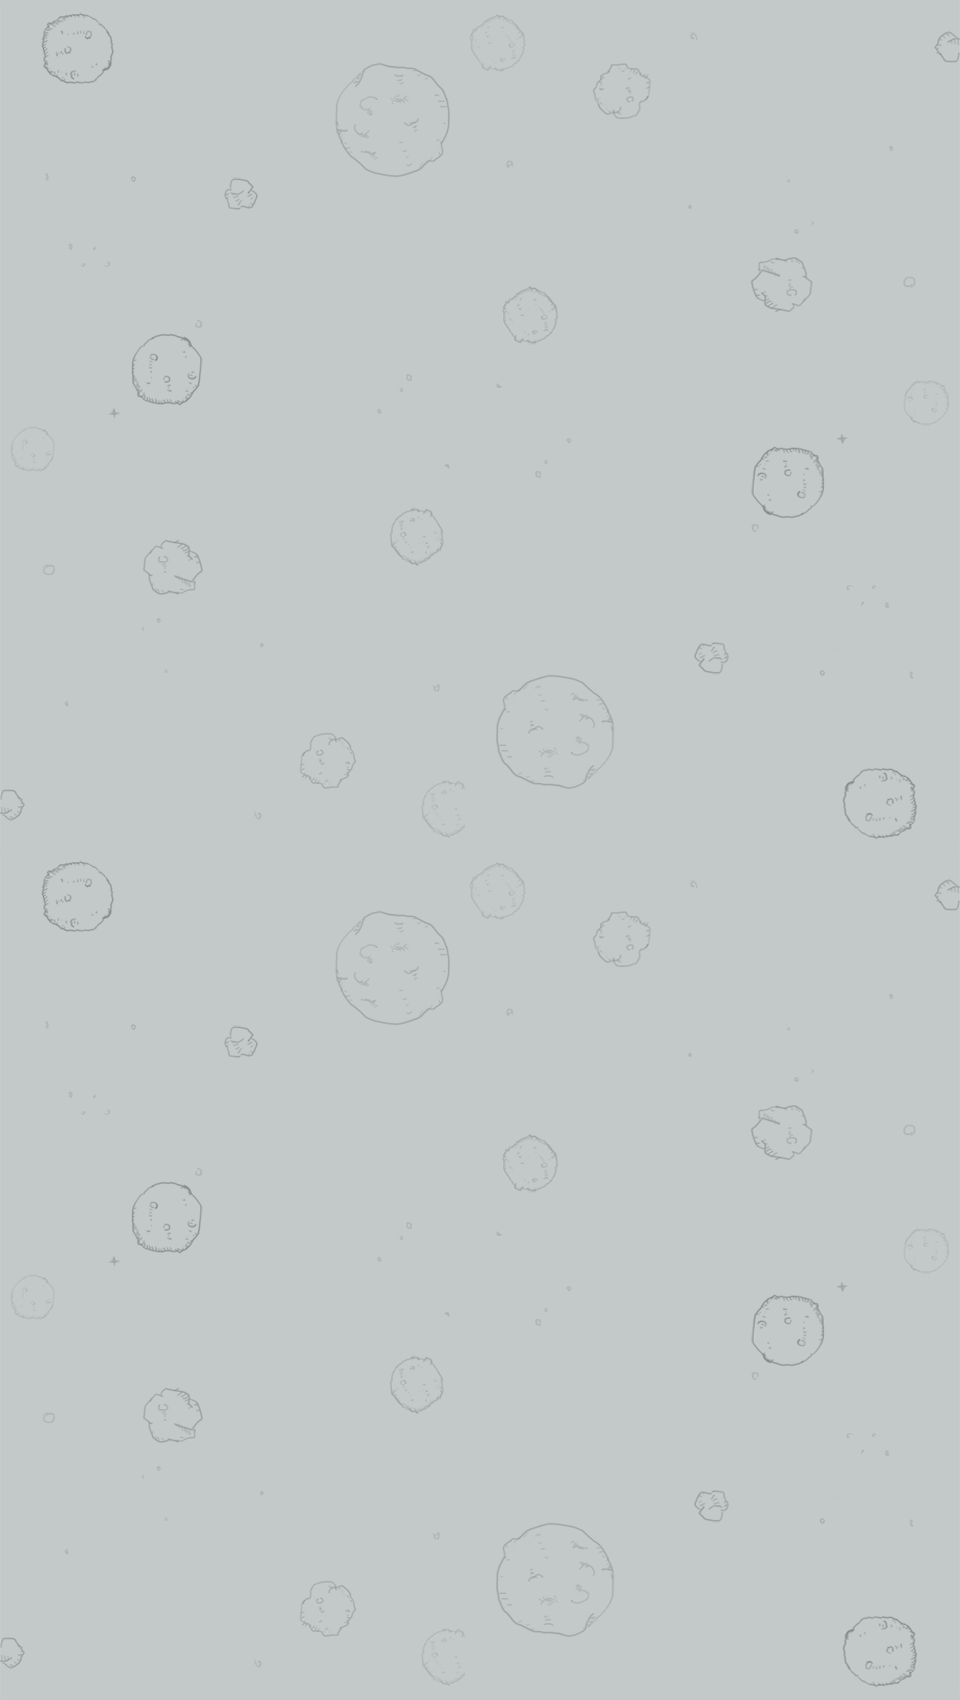
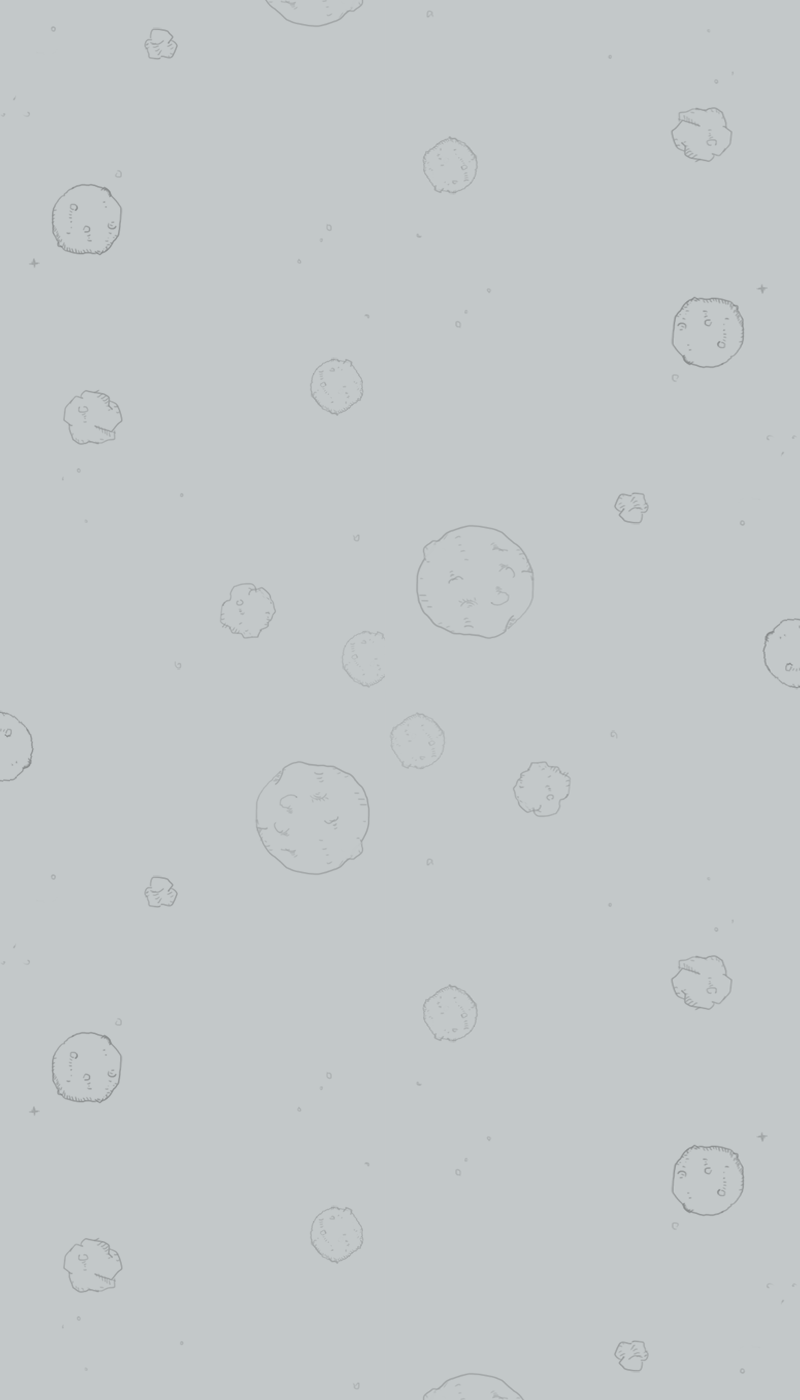
hxy77
更新背景大小

diff --git a/PlaneFight/index.html b/PlaneFight/index.html
@@ -6,14 +6,17 @@
 	</head>
 
 	<body>
-		<div id="stage" style="margin: 0 auto; width: 960px; height: 1700px; text-align: center; vertical-align: middle" >
-			<canvas id="canvas" style="border:0px solid red;" width="960" height="1700">
+		<div id="stage" style="margin: 0 auto; width: 800px; height: 1400px; text-align: center; vertical-align: middle" >
+			<canvas id="canvas" style="border:0px solid red;" width="800" height="1400">
 				不支持画板对象
 			</canvas>
 		</div>
 		<script>
 			var canvas = document.getElementById('canvas');
 			var ctx = canvas.getContext('2d');
+			canvas.addEventListener('touchstart', onTouchStart, false);
+			//canvas.addEventListener('touchmove',onTouchMove,false);
+			//canvas.addEventListener('touchend',onTouchEnd,false);
 
 			var background = new Image();
 			//background.src = "images/background.png";
@@ -88,7 +91,7 @@
 			b[0].src = "images/bullet1.png";
 			b[1] = new Image();
 			b[1].src = "images/bullet2.png";
-			
+
 			var u = [];
 			u[0] = new Image();
 			u[0].src = "images/ufo1.png"
@@ -108,14 +111,14 @@
 			setInterval(function() {
 				controlState(ctx);
 			}, 10);
-			
+
 			function controlState(ctx) {
 				switch(state) {
 					case START:
 						sky.paint(ctx);
 						sky.step();
-						var x = 260;
-						var y = 130;
+						var x = 180;
+						var y = 300;
 						ctx.drawImage(copyright, x, y);
 						break;
 					case RUNNING:
@@ -135,20 +138,31 @@
 					case GAME_OVER:
 						paintComponent(ctx);
 						sky.step();
-						var x = 960 / 2 - 245 / 2;
-						var y = 852 * (1 - 0.6);
+						var x = 800 / 2 - 245 / 2;
+						var y = 1000 * (1 - 0.6);
 						ctx.font = "40px 微软雅黑";
 						ctx.fillText("GAME OVER", x, y);
 						break;
 				}
 			}
-			
+
+
 			canvas.onclick = function() {
 				if (state == START) {
 					state = RUNNING;
 				}
 			}
-			
+			function onTouchStart(event) {
+
+				var touch = event.targetTouches[0];
+				/*if(checkimpact(touch.pageX,touch.pageY,zhujue))
+				 {
+				 //alert("1");
+				 is_clicked_zhujue=true;
+				 }*/
+			}
+
+
 			canvas.onmouseout = function() {
 				if (state == RUNNING) {
 					state = PAUSE;
@@ -194,11 +208,11 @@
 							enemies.splice(0, 0, new Enemy(0, -258, 169, 258, 3, 20, 20, e3, 2));
 						}
 				}
-				var random = parseInt(Math.random()*15);
-				if(random==1){
-					ufo[ufo.length] = new Ufo(0,0,58,88,1,u,1);
+				var random = parseInt(Math.random() * 15);
+				if (random == 1) {
+					ufo[ufo.length] = new Ufo(0, 0, 58, 88, 1, u, 1);
 				}
-				if(hero.power<=0){
+				if (hero.power <= 0) {
 					hero.multipleFire = false;
 				}
 			}
@@ -212,8 +226,8 @@
 					bullets[i].step();
 				}
 				hero.step();
-				for(var i = 0;i<ufo.length;i++){
-					if(ufo[i]){
+				for (var i = 0; i < ufo.length; i++) {
+					if (ufo[i]) {
 						ufo[i].step();
 					}
 				}
@@ -228,20 +242,20 @@
 					bullets[i].paint(ctx);
 				}
 				hero.paint(ctx);
-				for(var i = 0;i<ufo.length;i++){
-					if(ufo[i]){
+				for (var i = 0; i < ufo.length; i++) {
+					if (ufo[i]) {
 						ufo[i].paint(ctx);
 					}
 				}
 				ctx.font = "20px 微软雅黑";
 				ctx.fillText("SCORE:" + score, 10, 20);
-				ctx.fillText("LIFE:" + heroes, 900, 20);
+				ctx.fillText("LIFE:" + heroes, 700, 20);
 			}
 
 			function Sky() {
 				this.img = background;
-				this.width = 960;
-				this.height = 1700;
+				this.width = 800;
+				this.height = 1400;
 				this.x1 = 0;
 				this.y1 = 0;
 				this.x2 = 0;
@@ -286,13 +300,13 @@
 			}
 			//屏幕滑动事件
 			/*canvas.ontouchmove = function(e) {
-				if (state == RUNNING) {
-					var mpoint = getPointOnCanvas(e.x, e.y);
-					hero.x = mpoint.x - hero.width / 2;
-					hero.y = mpoint.y - hero.height / 2;
-				}
-			}*/
-			
+			 if (state == RUNNING) {
+			 var mpoint = getPointOnCanvas(e.x, e.y);
+			 hero.x = mpoint.x - hero.width / 2;
+			 hero.y = mpoint.y - hero.height / 2;
+			 }
+			 }*/
+
 			function FlyingObject(x, y, width, height, life, frames, baseFrameCount) {
 				this.x = x;
 				this.y = y;
@@ -346,13 +360,13 @@
 					}
 				}
 				this.outOfBounds = function() {
-					return this.y >= 1700;
+					return this.y >= 1400;
 				}
 			}
 
 			function Enemy(x, y, width, height, type, life, score, frames, baseFrameCount) {
 				FlyingObject.call(this, x, y, width, height, life, frames, baseFrameCount);
-				this.x = Math.random() * (960 - this.width);
+				this.x = Math.random() * (800 - this.width);
 				this.y = -this.height;
 				this.score = score;
 				this.type = type;
@@ -360,8 +374,8 @@
 
 			function Hero(x, y, width, height, life, frames, baseFrameCount) {
 				FlyingObject.call(this, x, y, width, height, life, frames, baseFrameCount);
-				this.x = 960 / 2 - this.width / 2;
-				this.y = 1700 - this.height - 30;
+				this.x = 800 / 2 - this.width / 2;
+				this.y = 1400 - this.height - 30;
 				this.shootInterval = 300;
 				this.shootLastTime = 0;
 				this.multipleFire = false;
@@ -372,16 +386,16 @@
 					}
 					this.shootLastTime = new Date().getTime();
 					//bullets[bullets.length] = new Bullet(this.x + 45, this.y, 9, 21, 1, b, 1);
-					if(this.multipleFire){
-						bullets[bullets.length] = new Bullet(this.x + 45, this.y + 1, 9, 21, 1, b, 1,1);
-						bullets[bullets.length] = new Bullet(this.x + 45, this.y + 1, 9, 21, 1, b, 1,2);
-						bullets[bullets.length] = new Bullet(this.x + 45, this.y + 1, 9, 21, 1, b, 1,3);
-						bullets[bullets.length] = new Bullet(this.x + 45, this.y + 1, 9, 21, 1, b, 1,4);
-						bullets[bullets.length] = new Bullet(this.x + 45, this.y + 1, 9, 21, 1, b, 1,5);
+					if (this.multipleFire) {
+						bullets[bullets.length] = new Bullet(this.x + 45, this.y + 1, 9, 21, 1, b, 1, 1);
+						bullets[bullets.length] = new Bullet(this.x + 45, this.y + 1, 9, 21, 1, b, 1, 2);
+						bullets[bullets.length] = new Bullet(this.x + 45, this.y + 1, 9, 21, 1, b, 1, 3);
+						bullets[bullets.length] = new Bullet(this.x + 45, this.y + 1, 9, 21, 1, b, 1, 4);
+						bullets[bullets.length] = new Bullet(this.x + 45, this.y + 1, 9, 21, 1, b, 1, 5);
 						this.power--;
-					}else{
+					} else {
 						bullets[bullets.length] = new Bullet(this.x + 45, this.y, 9, 21, 1, b, 1);
-						
+
 					}
 				}
 				this.move = function() {
@@ -389,44 +403,46 @@
 				}
 			}
 
-			function Bullet(x, y, width, height, life, frames, baseFrameCount,type) {
+			function Bullet(x, y, width, height, life, frames, baseFrameCount, type) {
 				FlyingObject.call(this, x, y, width, height, life, frames, baseFrameCount);
 				this.move = function() {
 					this.y -= 2;
-					switch(type){
+					switch(type) {
 						case 1:
-						this.x -= 1;
-						break;
+							this.x -= 1;
+							break;
 						case 2:
-						this.x -= 0.45;
-						break;
-						case 3: 
-						
-						break;
+							this.x -= 0.45;
+							break;
+						case 3:
+
+							break;
 						case 4:
-						this.x += 0.45;
-						break;
+							this.x += 0.45;
+							break;
 						case 5:
-						this.x += 1;
-						
+							this.x += 1;
+
 					}
 				}
 				this.outOfBounds = function() {
 					return this.y < -this.height;
 				}
 			}
-			
-			function Ufo(x,y,width,height,life,frames,baseFrameCount){
-				FlyingObject.call(this,x,y,width,height,life,frames,baseFrameCount);
-				this.x = Math.random()*(960-this.width);
+
+			function Ufo(x, y, width, height, life, frames, baseFrameCount) {
+				FlyingObject.call(this, x, y, width, height, life, frames, baseFrameCount);
+				this.x = Math.random() * (800 - this.width);
 				this.y = -this.height;
 			}
-			function reload(number){
+
+			function reload(number) {
 				hero.power += number;
-				if(hero.power>0){
+				if (hero.power > 0) {
 					hero.multipleFire = true;
 				}
 			}
+
 			function checkHit() {
 				for (var i = 0; i < enemies.length; i++) {
 					var enemy = enemies[i];
@@ -450,16 +466,15 @@
 					}
 
 				}
-				for(var i = 0;i < ufo.length;i++){
-					if(ufo[i].hit(hero)){
+				for (var i = 0; i < ufo.length; i++) {
+					if (ufo[i].hit(hero)) {
 						ufo[i].bang();
 						reload(5);
 					}
 				}
-				
+
 			}
-			
-			
+
 			function deleteComponent() {
 				var ary = [];
 				var idx = 0;
@@ -481,8 +496,8 @@
 				bullets = ary;
 				ary = [];
 				idx = 0;
-				for(var i = 0;i<ufo.length;i++){
-					if(!(ufo[i].canDelete||ufo[i].outOfBounds())){
+				for (var i = 0; i < ufo.length; i++) {
+					if (!(ufo[i].canDelete || ufo[i].outOfBounds())) {
 						ary[idx] = ufo[i];
 						idx++;
 					}
